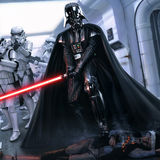
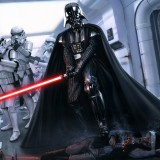
Ajustado modulo de resize da imagem GD

diff --git a/class/imageGenerateGD.php b/class/imageGenerateGD.php
@@ -7,6 +7,14 @@ include_once "Image.php";
 class imageGenerateGD implements  Image{
     private $image;
 
+    public function __construct(){
+        $options = func_get_args();
+        if(count($options)){
+            $this->open($options[0]);
+        }
+
+    }
+
     /**
      * @param $file
      * @param string $anchor
@@ -24,8 +32,9 @@ class imageGenerateGD implements  Image{
                 $this->image = imagecreatefromgif($imagePath);
                 break;
             case 'png':
-            default:
                 $this->image = imagecreatefrompng($imagePath);
+            default:
+                $this->image = imagecreatefromjpeg($imagePath);
         }
         imagealphablending($this->image, true);
         imagesavealpha($this->image, true);
@@ -48,28 +57,33 @@ class imageGenerateGD implements  Image{
             'height'    =>  imagesy($this->image)
         );
 
-        // crop the image
-        if(($geo['width']/$width) < ($geo['height']/$height)){
-            $ratio = $width / $geo['height'];
-            $newheight = $height;
-            $newwidth = $width * $ratio;
-            $writex = round(($width - $newwidth) / 2);
-            $writey = 0;
-            $newimg = imagecreatetruecolor($geo['width'],floor($height*$geo['width']/$width));
-            //$this->image->cropImage($geo['width'], floor($height*$geo['width']/$width), 0, (($geo['height']-($height*$geo['width']/$width))/2));
-            //imagecopyresampled($resize->source, $this->source, $thumb_X, $thumb_Y, 0, 0, $thumb_W, $thumb_H, $orig_W, $orig_H);
-        } else {
-            $ratio = $width / $geo['width'];
-            $newwidth = $width;
-            $newheight = $geo['height'] * $ratio;
-            $writex = 0;
-            $writey = round(($geo['height'] - $newheight) / 2);
-            $newimg = imagecreatetruecolor(ceil($width*$geo['height']/$height),$geo['height']);
-            //$this->image->cropImage(ceil($width*$geo['height']/$height), $geo['height'], (($geo['width']-($width*$geo['height']/$height))/2), 0);
+        $original_aspect = $geo['width'] / $geo['height'];
+        $thumb_aspect = $width / $height;
+
+        if ( $original_aspect >= $thumb_aspect )
+        {
+            // If image is wider than thumbnail (in aspect ratio sense)
+            $new_height = $height;
+            $new_width = $geo['width'] / ($geo['height'] / $height);
         }
-        imagecolorallocate($newimg,0,0,0);
-        imagecopyresized($newimg, $this->image, $writex, $writey, 0, 0, $newwidth, $newheight, $width, $height);
-        $this->image = $newimg;
+        else
+        {
+            // If the thumbnail is wider than the image
+            $new_width = $width;
+            $new_height = $geo['height'] / ($geo['width'] / $width);
+        }
+
+        $thumb = imagecreatetruecolor( $width, $height );
+
+        // Resize and crop
+        imagecopyresampled($thumb,
+            $this->image,
+            0 - ($new_width - $width) / 2, // Center the image horizontally
+            0 - ($new_height - $height) / 2, // Center the image vertically
+            0, 0,
+            $new_width, $new_height,
+            $geo['width'], $geo['height']);
+        $this->image = $thumb;
         return $this;
     }
 
@@ -77,7 +91,7 @@ class imageGenerateGD implements  Image{
      * @param $file
      * @param $quality
      */
-    function save($file, $quality){
+    function save($file, $quality = 90){
         imagejpeg($this->image,$file, intval($quality));
     }
 }

diff --git a/teste.php b/teste.php
@@ -6,17 +6,8 @@
  * Time: 9:42 PM
  */
 
-include_once "class/ImageGenerateImagick.php";
-/*
-$teste = new imageGenerateImagick('image/origin/DarthVader.jpg');
+include_once "class/imageGenerateGD.php";
+
+$teste = new imageGenerateGD('image/origin/DarthVader.jpg');
 $teste->resize(160,160,'')
-        ->save('image/destination/DarthVader.jpg');*/
-
-$path_parts = pathinfo('image/origin/DarthVader.jpg');
-$colorVal = hexdec('ffffff');
-$color_R = 0xFF & ($colorVal >> 0x10);
-$color_G = 0xFF & ($colorVal >> 0x8);
-$color_B = 0xFF & $colorVal;
-
-
-var_dump($colorVal);
+        ->save('image/destination/DarthVader.jpg');

diff --git a/class/ImageGenerateImagick.php b/class/ImageGenerateImagick.php
@@ -34,8 +34,6 @@ class imageGenerateImagick implements  Image{
      */
     function resize($width = 160, $height = 90){
 
-        // load an image
-        // get the current image dimensions
         $geo = $this->image->getImageGeometry();
 
         // crop the image
